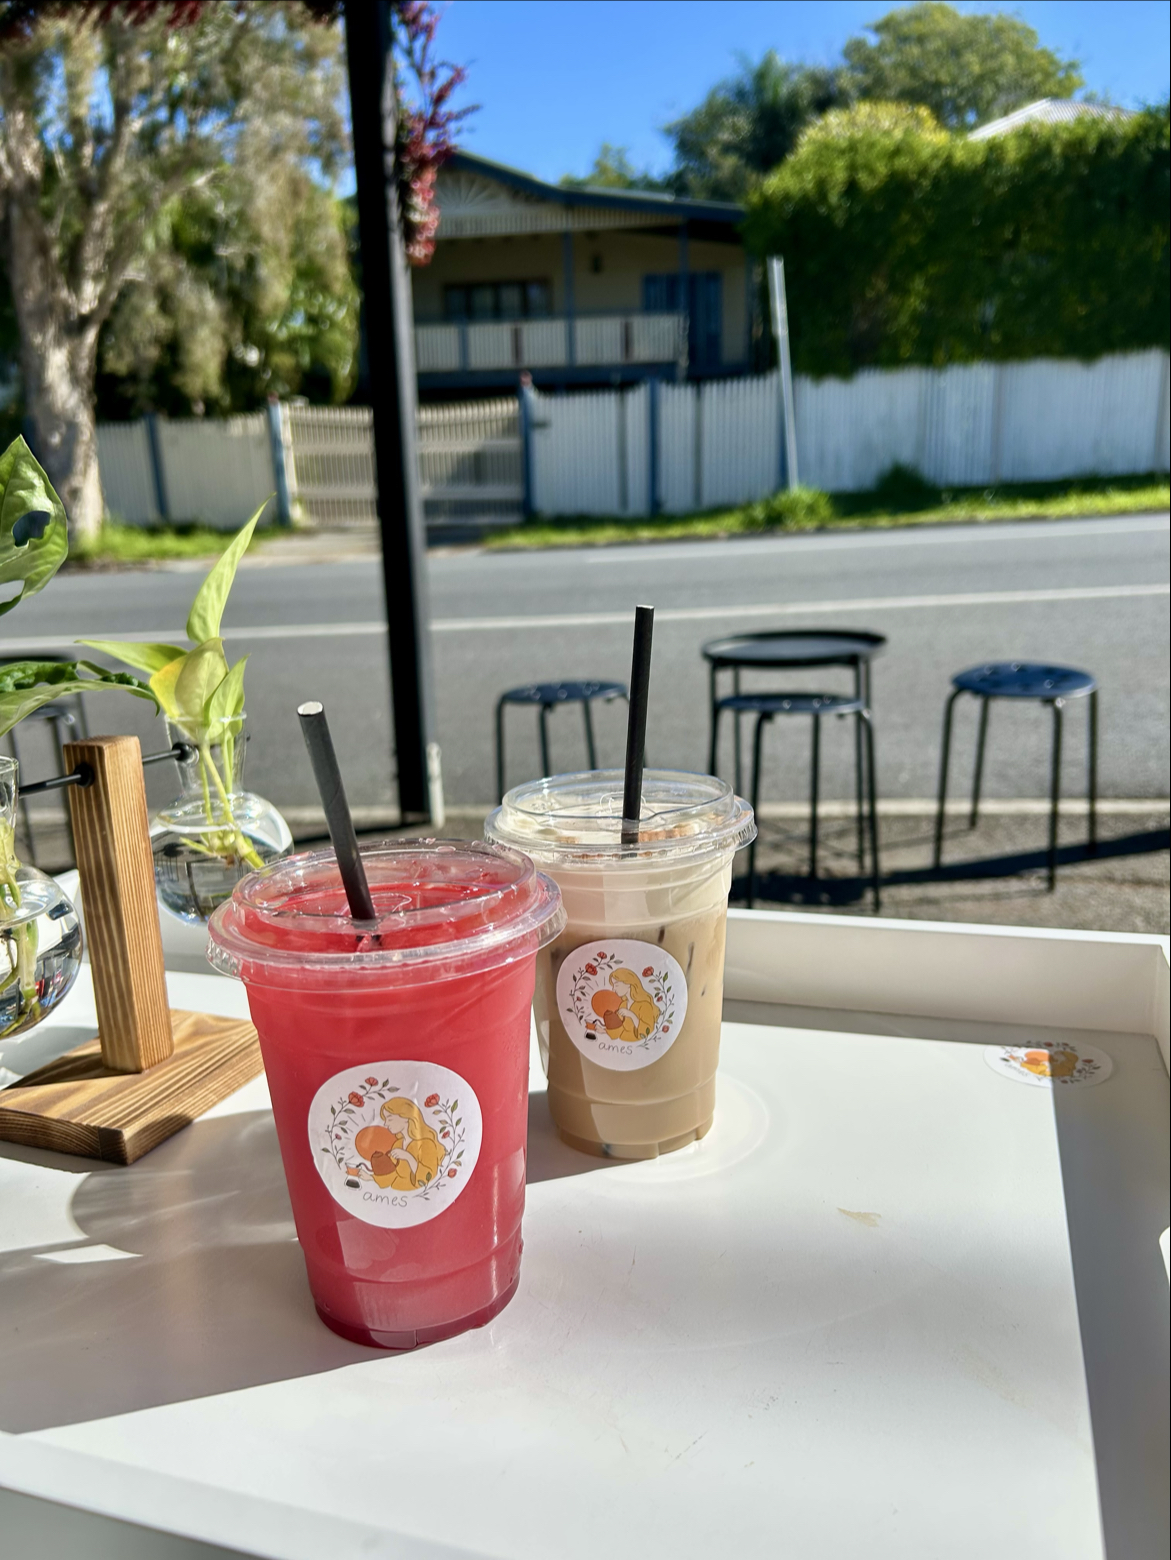
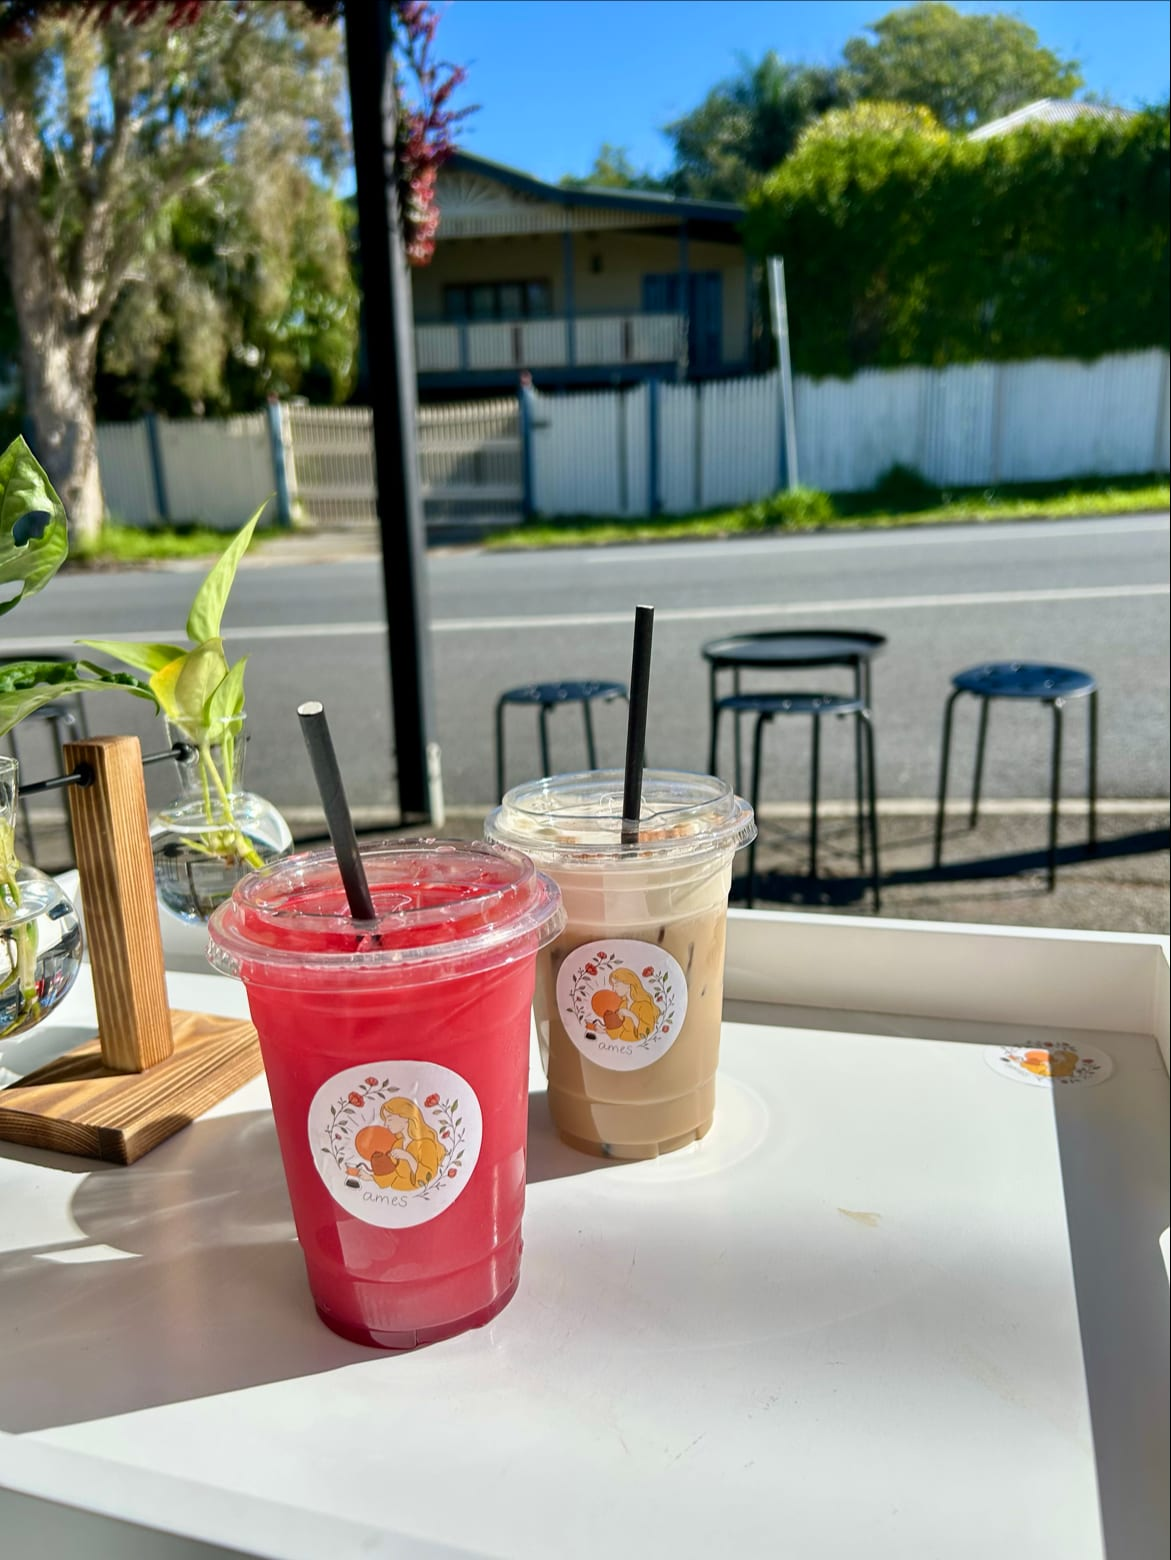
perf(images): fix slow image loading and add smooth reveal animations
Root cause was a mix of things, not just raw file weight: the gallery's
first slide was fetched eagerly even though the section sits well below
the fold, competing with the hero for bandwidth; no AVIF was offered
despite sharp being available; there was no blur placeholder so images
popped in abruptly once loaded; and outdoor-seating.jpg was encoded at
4:4:4 chroma (8-10x heavier than its 4:2:0 siblings) for no visual gain.

- Enable AVIF (with WebP fallback) in next.config.ts
- Re-encode outdoor-seating.jpg to match sibling compression (1.4MB -> 180KB)
- Add FadeImage: crossfades from a generated blur placeholder on load,
  skipped for priority images so it never gates LCP
- Fix Gallery's eager-loaded off-screen slide to lazy load like the rest
- Let Reveal's transition duration be overridden per instance so the
  photography-heavy Gallery reveal can run faster (900ms -> 400ms)
  without touching the shared text-reveal default elsewhere

diff --git a/src/data/gallery.ts b/src/data/gallery.ts
@@ -6,6 +6,8 @@ export type GalleryImage = {
   alt: string;
   width: number;
   height: number;
+  /** Tiny base64 preview shown via next/image's blur placeholder while the real file loads. */
+  blurDataURL: string;
 };
 
 export const heroImage: GalleryImage = {
@@ -13,6 +15,8 @@ export const heroImage: GalleryImage = {
   alt: "ames coffee's black walk-up coffee window on McLennan Street, Albion, with the hand-painted rose sign overhead and Rooky the border collie sitting out front",
   width: 1200,
   height: 1600,
+  blurDataURL:
[1 lines of base64/hex data omitted]
 };
 
 export const storyImage: GalleryImage = {
@@ -20,6 +24,8 @@ export const storyImage: GalleryImage = {
   alt: "Inside the ames coffee hatch, with plywood-lined shelving, an espresso machine and a barista pulling a shot",
   width: 1600,
   height: 1200,
+  blurDataURL:
[1 lines of base64/hex data omitted]
 };
 
 export const visitImage: GalleryImage = {
@@ -27,6 +33,8 @@ export const visitImage: GalleryImage = {
   alt: "ames coffee viewed from across McLennan Street, with customers on stools out front and the Queenslander house next door",
   width: 900,
   height: 1600,
+  blurDataURL:
[1 lines of base64/hex data omitted]
 };
 
 export const galleryImages: GalleryImage[] = [
@@ -35,29 +43,39 @@ export const galleryImages: GalleryImage[] = [
     alt: "Iced matcha drink with strawberry cold foam, held up in front of the ames coffee window",
     width: 1200,
     height: 1600,
+    blurDataURL:
[1 lines of base64/hex data omitted]
   },
   {
     src: "/images/latte-art.jpg",
     alt: "\"ames\" stencilled in cocoa on the foam of a flat white",
     width: 1200,
     height: 1600,
+    blurDataURL:
[1 lines of base64/hex data omitted]
   },
   {
     src: "/images/outdoor-seating.jpg",
     alt: "Two ames coffee cups on the footpath table with the residential street behind",
     width: 1171,
     height: 1560,
+    blurDataURL:
[1 lines of base64/hex data omitted]
   },
   {
     src: "/images/latte-sticker.jpg",
     alt: "Iced coffee cup with the ames coffee circular dog-and-floral sticker",
     width: 1200,
     height: 1600,
+    blurDataURL:
[1 lines of base64/hex data omitted]
   },
   {
     src: "/images/matcha-walk.jpg",
     alt: "Walking away from ames coffee with an iced matcha and a bamboo straw",
     width: 900,
     height: 1600,
+    blurDataURL:
[1 lines of base64/hex data omitted]
   },
 ];

diff --git a/src/components/ui/Reveal.tsx b/src/components/ui/Reveal.tsx
@@ -9,6 +9,8 @@ type RevealProps = {
   children: ReactNode;
   className?: string;
   delay?: number;
+  /** Overrides the variant's default transition length; photography call sites pass a shorter one. */
+  duration?: number;
   /** rise (default): lifts into place. curtain: wipes upward, reserved for photography. */
   variant?: RevealVariant;
 };
@@ -23,20 +25,28 @@ const shown: Record<RevealVariant, string> = {
   curtain: "opacity-100 [clip-path:inset(0_0_0_0)]",
 };
 
-const TRANSITION: Record<RevealVariant, string> = {
-  rise: "transition-all duration-[900ms] ease-[cubic-bezier(0.22,1,0.36,1)]",
+// Inline, not a Tailwind duration-[...] class, so call sites can override per instance.
+const DEFAULT_DURATION: Record<RevealVariant, number> = {
+  rise: 900,
   // Shorter than `rise`: at 900ms the already-loaded photo read as slow to
   // appear even though it had nothing left to load.
-  curtain: "transition-all duration-[500ms] ease-[cubic-bezier(0.22,1,0.36,1)]",
+  curtain: 500,
+};
+
+const TRANSITION: Record<RevealVariant, string> = {
+  rise: "transition-all ease-[cubic-bezier(0.22,1,0.36,1)]",
+  curtain: "transition-all ease-[cubic-bezier(0.22,1,0.36,1)]",
 };
 
 export function Reveal({
   children,
   className = "",
   delay = 0,
+  duration,
   variant = "rise",
 }: RevealProps) {
   const { ref, isInView } = useInView<HTMLDivElement>();
+  const resolvedDuration = duration ?? DEFAULT_DURATION[variant];
 
   // IntersectionObserver measures the target *after* clipping, so an element
   // that clips itself never trips its own observer. Clip an inner layer instead
@@ -48,7 +58,7 @@ export function Reveal({
           className={`absolute inset-0 ${TRANSITION.curtain} ${
             isInView ? shown.curtain : hidden.curtain
           }`}
-          style={{ transitionDelay: `${delay}ms` }}
+          style={{ transitionDelay: `${delay}ms`, transitionDuration: `${resolvedDuration}ms` }}
         >
           {children}
         </div>
@@ -62,7 +72,7 @@ export function Reveal({
       className={`${TRANSITION[variant]} ${
         isInView ? shown[variant] : hidden[variant]
       } ${className}`}
-      style={{ transitionDelay: `${delay}ms` }}
+      style={{ transitionDelay: `${delay}ms`, transitionDuration: `${resolvedDuration}ms` }}
     >
       {children}
     </div>

diff --git a/src/components/sections/Visit.tsx b/src/components/sections/Visit.tsx
@@ -1,9 +1,9 @@
-import Image from "next/image";
 import { business } from "@/data/business";
 import { visitImage } from "@/data/gallery";
 import { SectionHeading } from "@/components/ui/SectionHeading";
 import { Button } from "@/components/ui/Button";
 import { Reveal } from "@/components/ui/Reveal";
+import { FadeImage } from "@/components/ui/FadeImage";
 import { OpenStatusBadge } from "@/components/ui/OpenStatusBadge";
 import { Rose } from "@/components/ui/Rose";
 
@@ -17,6 +17,7 @@ const goodToKnow = [
   business.amenities.seating,
   "Free street parking and a free lot, usually with room to spare",
   "Wheelchair accessible entrance and parking",
+  "Card and tap to pay accepted",
   "Dogs and kids welcome",
 ];
 
@@ -58,10 +59,12 @@ export function Visit() {
             variant="curtain"
             className="relative aspect-[4/3] overflow-hidden rounded-[2rem] shadow-[0_30px_60px_-35px_rgba(34,30,26,0.5)] ring-1 ring-ink/[0.06] sm:rounded-[2.5rem] lg:aspect-auto lg:h-full"
           >
-            <Image
+            <FadeImage
               src={visitImage.src}
               alt={visitImage.alt}
               fill
+              placeholder="blur"
+              blurDataURL={visitImage.blurDataURL}
               sizes="(min-width: 1024px) 55vw, 92vw"
               className="object-cover"
             />

diff --git a/src/components/ui/FadeImage.tsx b/src/components/ui/FadeImage.tsx
@@ -1,0 +1,37 @@
+"use client";
+
+import Image, { type ImageProps } from "next/image";
+import { useState } from "react";
+import { Rose } from "@/components/ui/Rose";
+
+// Crossfades from the blur placeholder on load; skip for priority images so it never gates LCP.
+export function FadeImage({ className = "", alt, onLoad, onError, ...props }: ImageProps) {
+  const [loaded, setLoaded] = useState(false);
+  const [errored, setErrored] = useState(false);
+
+  if (errored) {
+    return (
+      <div className="absolute inset-0 flex items-center justify-center bg-sand" role="img" aria-label={alt}>
+        <Rose variant="bloom" className="h-8 w-8 opacity-40" />
+      </div>
+    );
+  }
+
+  return (
+    <Image
+      {...props}
+      alt={alt}
+      onLoad={(event) => {
+        setLoaded(true);
+        onLoad?.(event);
+      }}
+      onError={(event) => {
+        setErrored(true);
+        onError?.(event);
+      }}
+      className={`transition-[opacity,transform,filter] duration-[350ms] ease-out motion-reduce:transition-none ${
+        loaded ? "scale-100 opacity-100 blur-0" : "scale-[1.03] opacity-0 blur-md"
+      } ${className}`}
+    />
+  );
+}

diff --git a/src/components/sections/Story.tsx b/src/components/sections/Story.tsx
@@ -1,8 +1,8 @@
-import Image from "next/image";
 import { business } from "@/data/business";
 import { storyImage } from "@/data/gallery";
 import { SectionHeading } from "@/components/ui/SectionHeading";
 import { Reveal } from "@/components/ui/Reveal";
+import { FadeImage } from "@/components/ui/FadeImage";
 
 export function Story() {
   return (
@@ -12,10 +12,12 @@ export function Story() {
           variant="curtain"
           className="relative aspect-[4/3] overflow-hidden rounded-[2rem] shadow-[0_30px_60px_-35px_rgba(34,30,26,0.5)] ring-1 ring-ink/[0.06] sm:rounded-[2.5rem] lg:aspect-[5/4]"
         >
-          <Image
+          <FadeImage
             src={storyImage.src}
             alt={storyImage.alt}
             fill
+            placeholder="blur"
+            blurDataURL={storyImage.blurDataURL}
             sizes="(min-width: 1024px) 55vw, 92vw"
             className="object-cover"
           />

diff --git a/next.config.ts b/next.config.ts
@@ -5,6 +5,9 @@ const nextConfig: NextConfig = {
   turbopack: {
     root: path.resolve(__dirname),
   },
+  images: {
+    formats: ["image/avif", "image/webp"],
+  },
 };
 
 export default nextConfig;
